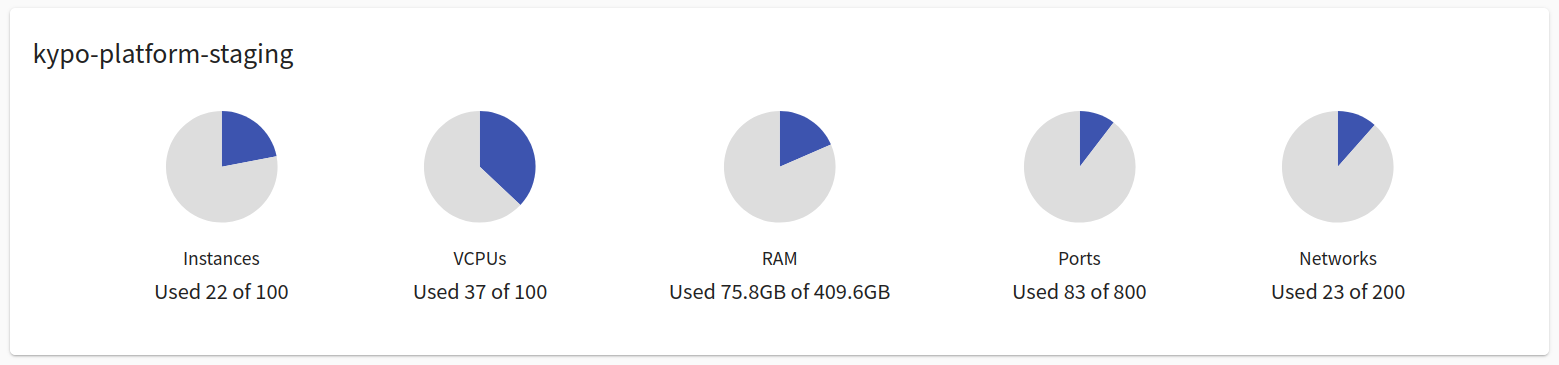
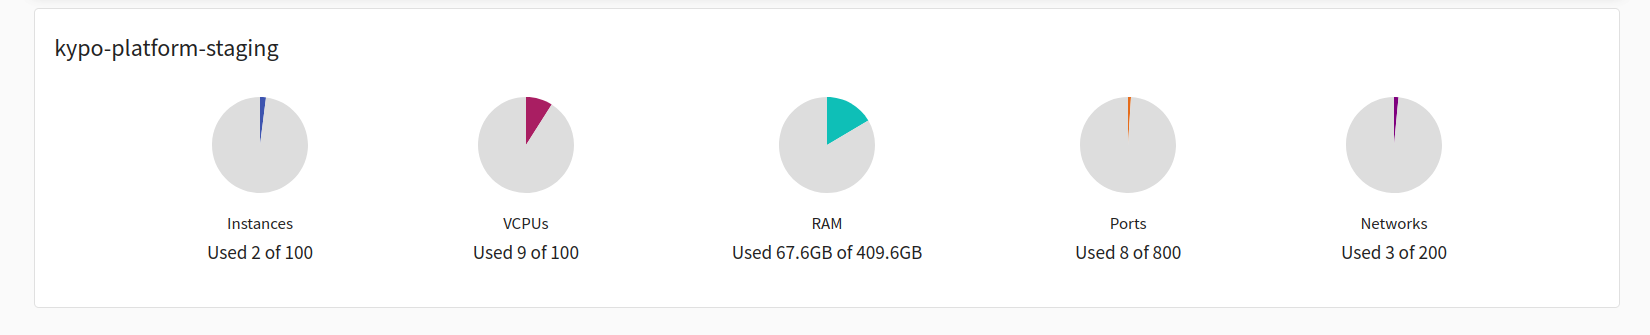
Updated pool overview page with reworked functionality

diff --git a/docs/user-guide-basic/sandbox-agenda/pool.md b/docs/user-guide-basic/sandbox-agenda/pool.md
@@ -1,21 +1,17 @@
 ## Pool Overview
 
-This page lists all sandbox pools that are accessible in the KYPO portal. In the following table, each row represents one pool: 
+This page lists all sandbox pools that are accessible in the KYPO portal and their available resources. In the following table, each row represents one pool: 
 
 ![pool-overview](../../img/user-guide-basic/sandbox-agenda/pool/pool-overview.png)
 
 Instructors can click on the title of each pool to see a more [detailed view](#pool-detail) of the given pool. The last column of this table contains actions :material-delete:{: .red .icon} &nbsp; :material-youtube-subscription:{: .blue .icon} &nbsp; :bootstrap-exposure-plus-1:{: .blue .icon} &nbsp; :bootstrap-clear-all:{: .red .icon} &nbsp; :material-key:{: .blue .icon} &nbsp; :material-lock:{: .blue .icon}/:material-lock-open-outline:{: .blue .icon} that can be executed on the given pool: 
 
-??? trash-can "Delete"
-    Click the button, and the following confirmation window will be opened:
 
-    ![delete-pool](../../img/user-guide-basic/sandbox-agenda/pool/delete-pool.png)
+??? pencil "Edit"
+    Click the button to edit pool information.
 
-    After confirming, the given pool will be deleted from the KYPO portal.
-
-    !!! warning
-        Pools that are **locked** or **not empty** cannot be deleted.
-
+    !!! info 
+        Information like pool size, comment or pool notifications can be edited through pool edit window. 
 
 ??? allocate-all "Allocate"
     Click the button to start allocating sandboxes.
@@ -27,17 +23,17 @@ Instructors can click on the title of each pool to see a more [detailed view](#p
     Click the button to start allocating one new sandbox.
 
     !!! info 
-        More about allocation in the [pool detail](#pool-detail).
+        More about allocation in the [pool detail](#pool-detail). 
 
-??? clear-all "Clear"
-    Click the button to delete all allocation requests and sandboxes from the given pool.
+??? trash-can "Delete"
+    Click the button, and the following confirmation window will be opened:
+
+    ![delete-pool](../../img/user-guide-basic/sandbox-agenda/pool/delete-pool.png)
+
+    After confirming, the given pool will be deleted from the KYPO portal.
 
     !!! warning
-        All sandboxes must be unlocked, and all allocation requests must be finished/stopped.   
-
-??? key "Get SSH Config"
-    Click the button to display a pop-up window to download the ZIP archive. The archive contains configuration with the **Management** SSH access to successfully built sandboxes. More about SSH access can be found [here](../../user-guide-advanced/sandboxes/sandbox-access.md).
-
+        Pools that are **locked** or **not empty** cannot be deleted.
 
 ??? lock "Lock"
     Click the button to change the state of the given pool from **unlocked** to **locked**. The lock symbolizes that pool is in use with some training instance.
@@ -47,14 +43,26 @@ Instructors can click on the title of each pool to see a more [detailed view](#p
 
  To create a new pool, click on the ![create-button](../../img/buttons/create-button.png) button. The instructor will be redirected to the page [Create Pool](#create-pool).
 
-
 ## Create Pool
-This page contains a short form that needs to be filled out before creating a new pool. The field **Sandbox Pool Size** specifies the maximal number of sandboxes that can be created inside the pool. The instructor must also select one of the available [sandbox definitions](./sandbox-definition.md) created by the instructor. Sandbox definitions define the topology of sandboxes and user configuration of virtual machines created in a sandbox. After filling out all the fields, confirm the creation of a new pool by clicking on the ![create-button](../../img/buttons/create-button.png) button. 
+This page contains a short form that needs to be filled out before creating a new pool. The field **Sandbox Pool Size** specifies the maximal number of sandboxes that can be created inside the pool. The instructor must also select one of the available [sandbox definitions](./sandbox-definition.md) created by the instructor. Sandbox definitions define the topology of sandboxes and user configuration of virtual machines created in a sandbox. Instructor is also able to add a comment to a pool for description purposes. Additionally, the instructor can check the notifications checkbox to receive e-mails on pool build progression. After filling out all the fields, confirm the creation of a new pool by clicking on the ![create-button](../../img/buttons/create-button.png) button. 
 
 The sandboxes built in the pool are always created from the same definition and the same revision. When the pool is created, it is tied to the current revision of the definition. If the definition revision has changed, e.g., new commit has been added to the specific branch, and you want to build sandboxes from a new revision, you need to make a new pool.
  
 ![create-pool](../../img/user-guide-basic/sandbox-agenda/pool/create-pool.png)
 
+## Resources Overview
+
+Resources Overview panel describes [statistics of OpenStack project utilization](#1-usage-statistics-of-cloud-server).
+
+### Usage Statistics of Cloud Server
+* **kypo-platform-testing**: the name of a used OpenStack project,
+* **Instances**: Created VMs in the OpenStack project,
+* **VCPUs**: Virtual CPUs currently in use by all instances,
+* **RAM**: The amount of the main memory currently in use by all instances.
+* **Ports**: The amount of the ports currently in use by all instances.
+* **Networks**: The amount of networks currently in use by all the instances.
+
+![usage-statistics](../../img/user-guide-basic/sandbox-agenda/resources/usage-stats.png)
 
 ## Pool Detail
 When the instructor clicks the title of a given pool in **Pool Overview** they will be redirected to the **Pool Detail** page, which contains panel addressing [sandbox instances](#sandbox-instances).
